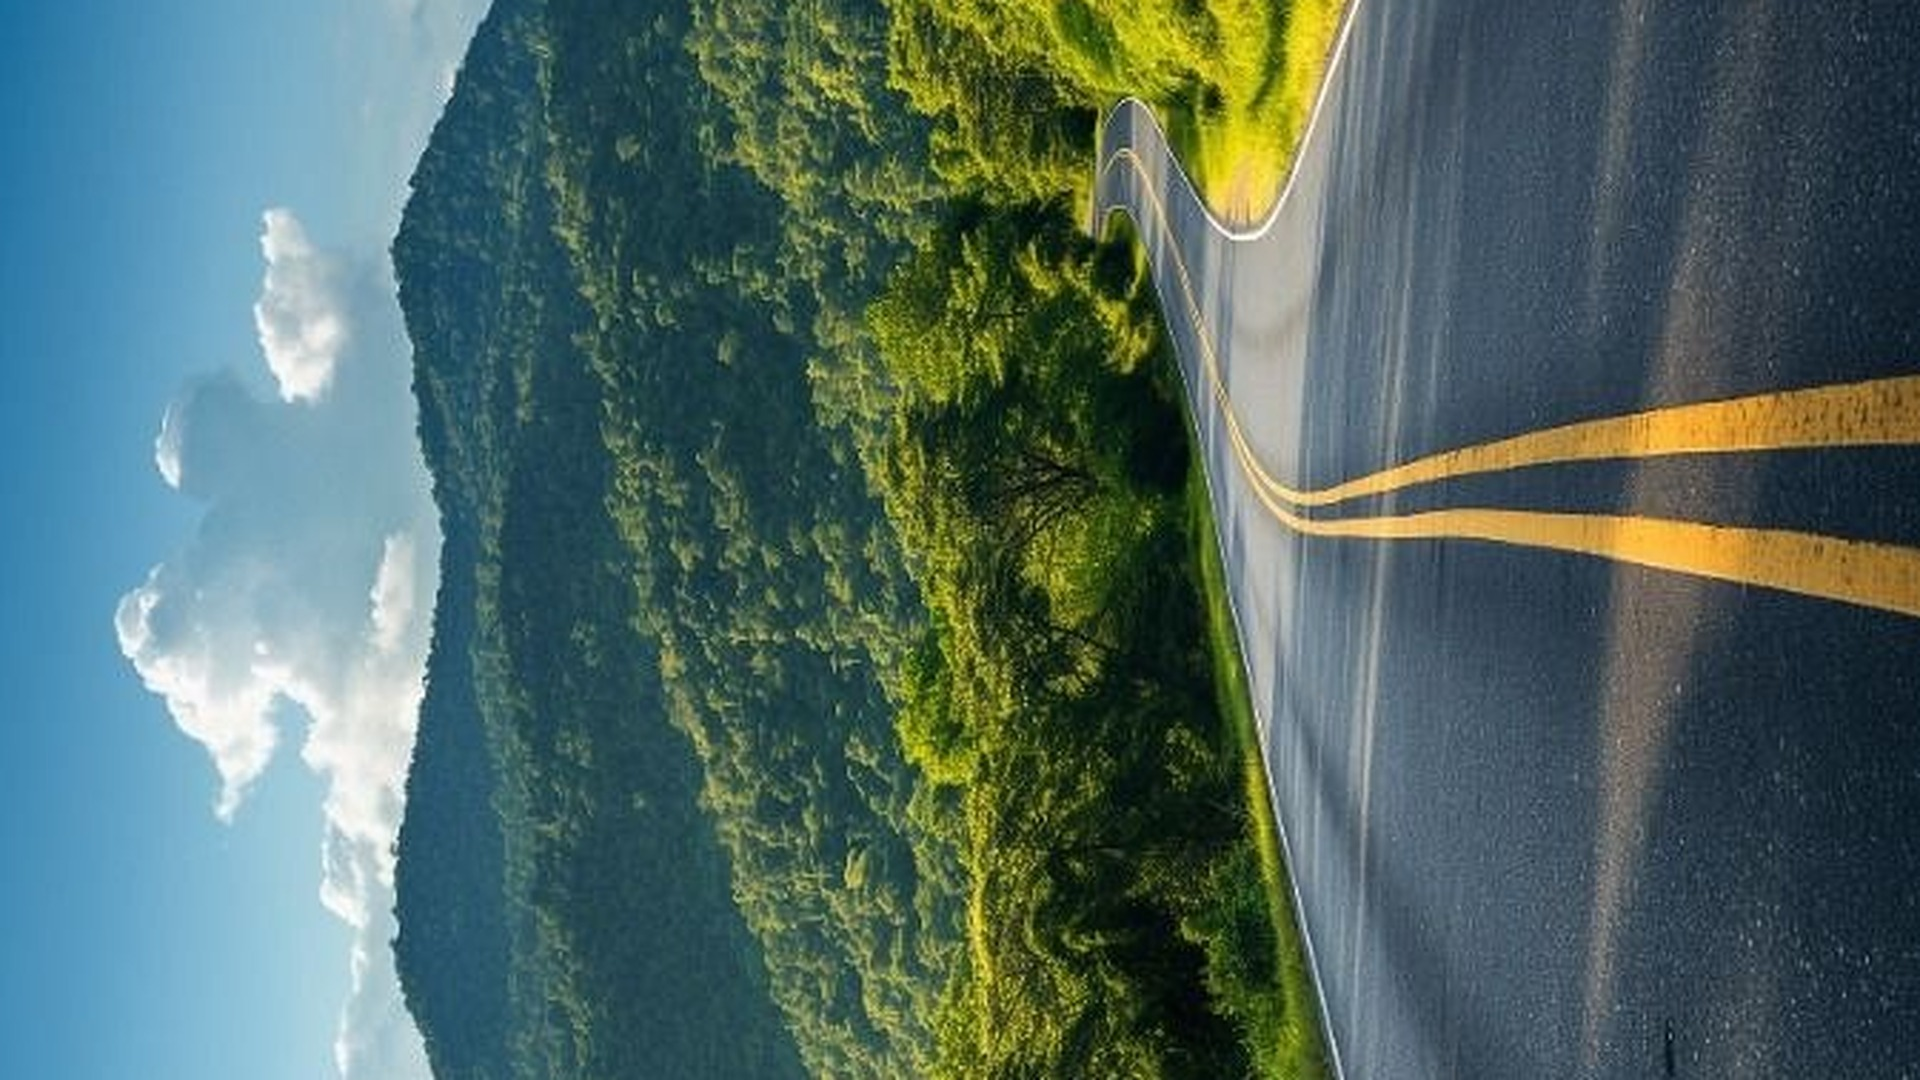
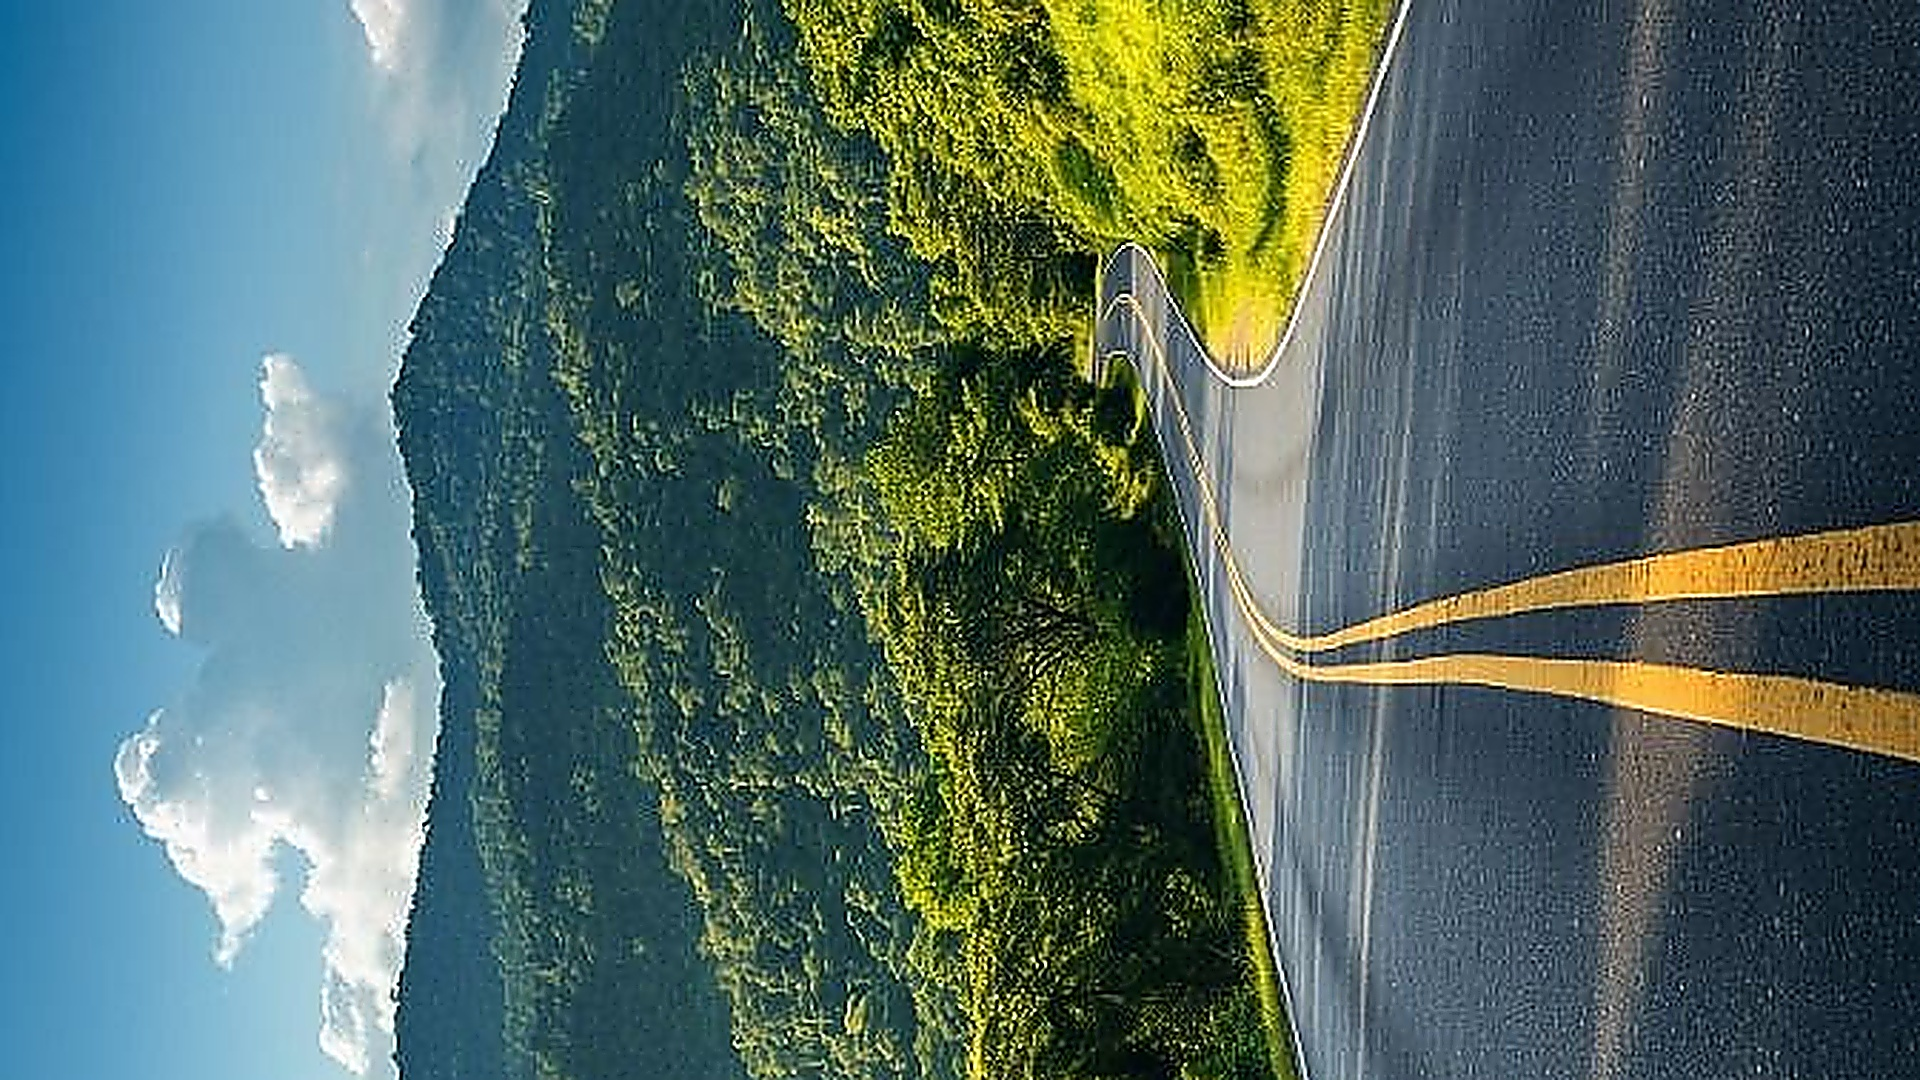
fix: proper landscape hero — scenic 16:9 crop, 4K sharpened desktop version, fills screen edge-to-edge

diff --git a/src/components/Hero.jsx b/src/components/Hero.jsx
@@ -6,11 +6,18 @@ export default function Hero() {
 
   return (
     <section className="relative min-h-screen flex items-center pt-20 overflow-hidden" id="hero-section">
-      {/* Single HD scenery photo as background */}
+      {/* Single HD scenery photo as background — auto-adapted to screen size */}
       <div id="hero-images" className="absolute inset-0 z-0">
-        <img className="w-full h-full object-cover" loading="eager"
-          alt="Scenic travel destination"
-          src="/assets/hero-scenery.jpg" />
+        <picture>
+          <source media="(min-width: 1600px)"
+            srcSet="/assets/hero-scenery-landscape-2x.jpg" />
+          <source media="(min-width: 768px)"
+            srcSet="/assets/hero-scenery-landscape.jpg" />
+          <source srcSet="/assets/hero-scenery-hd.jpg" />
+          <img className="w-full h-full object-cover object-center" loading="eager"
+            alt="Scenic travel destination"
+            src="/assets/hero-scenery.jpg" />
+        </picture>
       </div>
 
       {/* Hero content */}
